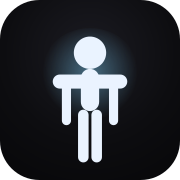
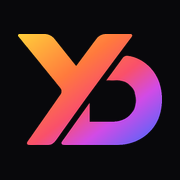
feat(brand): фирменный логотип YeahDays везде + чёткие иконки
- Компонент Logo (color/white, опциональное CSS-свечение) + LogoLoader
  (пульсирующий логотип вместо безликого спиннера).
- Онбординг-герой, экраны загрузки — цветной логотип; шапка главной и
  подпись профиля — белый знак.
- Иконки/favicon пересобраны из логотипа. Важно: светящийся исходник при
  уменьшении превращался в мутное пятно, поэтому иконки и логотип в UI
  строятся из ЧЁТКОЙ формы «YD» (силуэт из белого логотипа) + фирменный
  градиент — резко и цветно на любом размере, свечение добавляем в CSS.
- Манифест/метаданные переведены на PNG-иконки; удалён старый icon.svg
  и устаревший gen-icons.mjs; sw.js v3→v4 (прекэш логотипов).
- Исходники логотипов в assets/, генерация — scripts/process-logo.mjs
  (npm run process-logo).

diff --git a/src/app/page.tsx b/src/app/page.tsx
@@ -6,6 +6,7 @@ import { motion, AnimatePresence } from "framer-motion";
 import SwipeDeck from "@/components/SwipeDeck";
 import CheckIn from "@/components/CheckIn";
 import Onboarding from "@/components/Onboarding";
+import Logo, { LogoLoader } from "@/components/Logo";
 import {
   useUserStore,
   useHydrated,
@@ -97,11 +98,7 @@ export default function HomePage() {
   /* ── Состояния экрана ── */
 
   if (!hydrated) {
-    return (
-      <div className="flex flex-1 items-center justify-center">
-        <div className="h-8 w-8 animate-spin rounded-full border-2 border-[var(--color-border)] border-t-[var(--color-fg)]" />
-      </div>
-    );
+    return <LogoLoader />;
   }
 
   if (!onboarded) {
@@ -121,25 +118,25 @@ export default function HomePage() {
 
   return (
     <div className="flex flex-1 flex-col">
-      {/* Шапка: прогресс дня */}
-      <header className="mb-4 flex items-start justify-between">
-        <div>
-          <p className="text-[13px] font-medium text-[var(--color-muted)]">
-            Сегодня
-          </p>
-          <h1 className="mt-0.5 text-[26px] font-bold leading-tight tracking-tight">
-            {takenToday >= DAILY_GOAL
-              ? "План собран"
-              : "Что сделаешь сегодня?"}
-          </h1>
-        </div>
-
+      {/* Бренд-марка + стрик */}
+      <div className="mb-3 flex items-center justify-between">
+        <Logo variant="white" className="h-4 w-auto opacity-90" />
         {streak > 0 && (
           <div className="flex items-center gap-1.5 rounded-full bg-[var(--color-surface)] px-3 py-1.5">
             <span className="text-sm">🔥</span>
             <span className="text-sm font-bold tabular-nums">{streak}</span>
           </div>
         )}
+      </div>
+
+      {/* Шапка: прогресс дня */}
+      <header className="mb-4">
+        <p className="text-[13px] font-medium text-[var(--color-muted)]">
+          Сегодня
+        </p>
+        <h1 className="mt-0.5 text-[26px] font-bold leading-tight tracking-tight">
+          {takenToday >= DAILY_GOAL ? "План собран" : "Что сделаешь сегодня?"}
+        </h1>
       </header>
 
       {/* Индикатор набора плана */}
@@ -165,9 +162,7 @@ export default function HomePage() {
 
       {/* Колода */}
       {loading ? (
-        <div className="flex flex-1 items-center justify-center">
-          <div className="h-8 w-8 animate-spin rounded-full border-2 border-[var(--color-border)] border-t-[var(--color-fg)]" />
-        </div>
+        <LogoLoader />
       ) : (
         <SwipeDeck
           deck={deck}

diff --git a/src/components/Onboarding.tsx b/src/components/Onboarding.tsx
@@ -5,6 +5,7 @@ import { AnimatePresence, motion } from "framer-motion";
 import { STAT_LIST, type StatKey } from "@/lib/domain";
 import { useUserStore } from "@/store/useUserStore";
 import { cn } from "@/lib/cn";
+import Logo from "@/components/Logo";
 
 /**
  * Первый запуск. Задаёт тон продукта и собирает минимум, который реально
@@ -81,8 +82,14 @@ export default function Onboarding() {
           {step === 0 && (
             <Step key="welcome">
               <div className="flex flex-1 flex-col items-center justify-center text-center">
-                <Orb />
-                <h1 className="mt-8 text-[34px] font-black leading-none tracking-tight">
+                <motion.div
+                  initial={{ scale: 0.9, opacity: 0 }}
+                  animate={{ scale: 1, opacity: 1 }}
+                  transition={{ duration: 0.5, ease: [0.22, 1, 0.36, 1] }}
+                >
+                  <Logo glow className="h-28 w-auto" />
+                </motion.div>
+                <h1 className="mt-5 text-[34px] font-black leading-none tracking-tight">
                   YeahDays
                 </h1>
                 <p className="mt-3 max-w-[300px] text-[16px] leading-snug text-[var(--color-fg-dim)]">
@@ -215,33 +222,5 @@ function Step({ children }: { children: React.ReactNode }) {
     >
       {children}
     </motion.div>
-  );
-}
-
-/** Живой градиентный шар — знак бренда на приветственном экране. */
-function Orb() {
-  return (
-    <div className="relative h-28 w-28">
-      <motion.div
-        className="absolute inset-0 rounded-full"
-        style={{
-          background:
-            "conic-gradient(from 0deg, #f97362, #f0b23f, #3fbf9a, #8b7cf6, #f97362)",
-          filter: "blur(2px)",
-        }}
-        animate={{ rotate: 360 }}
-        transition={{ duration: 12, repeat: Infinity, ease: "linear" }}
-      />
-      <div className="absolute inset-[10px] rounded-full bg-[var(--color-bg)]" />
-      <motion.div
-        className="absolute inset-[26px] rounded-full"
-        style={{
-          background:
-            "radial-gradient(circle at 40% 35%, #fff, #8b7cf6 70%, transparent)",
-        }}
-        animate={{ scale: [1, 1.08, 1] }}
-        transition={{ duration: 3, repeat: Infinity, ease: "easeInOut" }}
-      />
-    </div>
   );
 }

diff --git a/src/components/Logo.tsx b/src/components/Logo.tsx
@@ -1,0 +1,44 @@
+"use client";
+
+import { motion } from "framer-motion";
+import { cn } from "@/lib/cn";
+
+interface LogoProps {
+  /** color — фирменный градиент; white — чистый белый знак */
+  variant?: "color" | "white";
+  /** мягкое неоновое свечение через CSS (для крупных мест) */
+  glow?: boolean;
+  className?: string;
+}
+
+const GLOW =
+  "[filter:drop-shadow(0_0_18px_rgba(160,120,255,0.45))_drop-shadow(0_0_34px_rgba(249,90,110,0.25))]";
+
+/** Логотип YeahDays. Чёткая «YD»; свечение — опциональный CSS-эффект. */
+export default function Logo({ variant = "color", glow, className }: LogoProps) {
+  return (
+    // eslint-disable-next-line @next/next/no-img-element
+    <img
+      src={variant === "white" ? "/logo-white.png" : "/logo.png"}
+      alt="YeahDays"
+      draggable={false}
+      className={cn("select-none object-contain", glow && GLOW, className)}
+    />
+  );
+}
+
+/** Экран загрузки с пульсирующим логотипом (вместо безликого спиннера). */
+export function LogoLoader() {
+  return (
+    <div className="flex flex-1 items-center justify-center">
+      <motion.img
+        src="/logo.png"
+        alt="YeahDays"
+        draggable={false}
+        className={cn("h-14 w-auto select-none object-contain", GLOW)}
+        animate={{ opacity: [0.6, 1, 0.6], scale: [0.96, 1, 0.96] }}
+        transition={{ duration: 1.5, repeat: Infinity, ease: "easeInOut" }}
+      />
+    </div>
+  );
+}

diff --git a/src/app/account/page.tsx b/src/app/account/page.tsx
@@ -3,6 +3,7 @@
 import { useMemo, useState } from "react";
 import { motion } from "framer-motion";
 import Avatar3D from "@/components/AvatarLazy";
+import Logo, { LogoLoader } from "@/components/Logo";
 import Modal from "@/components/ui/Modal";
 import Button from "@/components/ui/Button";
 import {
@@ -49,11 +50,7 @@ export default function AccountPage() {
   );
 
   if (!hydrated) {
-    return (
-      <div className="flex flex-1 items-center justify-center">
-        <div className="h-8 w-8 animate-spin rounded-full border-2 border-[var(--color-border)] border-t-[var(--color-fg)]" />
-      </div>
-    );
+    return <LogoLoader />;
   }
 
   return (
@@ -219,6 +216,14 @@ export default function AccountPage() {
         >
           Сбросить весь прогресс
         </Button>
+      </div>
+
+      {/* Бренд */}
+      <div className="mt-8 mb-1 flex flex-col items-center gap-1.5 opacity-55">
+        <Logo variant="white" className="h-4 w-auto" />
+        <p className="text-[11px] text-[var(--color-muted)]">
+          Одно действие в день
+        </p>
       </div>
 
       {/* Модалка имени */}

diff --git a/src/app/today/page.tsx b/src/app/today/page.tsx
@@ -7,6 +7,7 @@ import Avatar3D from "@/components/AvatarLazy";
 import PlanItem from "@/components/PlanItem";
 import LevelUpOverlay from "@/components/LevelUpOverlay";
 import DayCompleteOverlay from "@/components/DayCompleteOverlay";
+import { LogoLoader } from "@/components/Logo";
 import {
   useUserStore,
   useHydrated,
@@ -57,11 +58,7 @@ export default function TodayPage() {
   }
 
   if (!hydrated) {
-    return (
-      <div className="flex flex-1 items-center justify-center">
-        <div className="h-8 w-8 animate-spin rounded-full border-2 border-[var(--color-border)] border-t-[var(--color-fg)]" />
-      </div>
-    );
+    return <LogoLoader />;
   }
 
   return (

diff --git a/src/app/layout.tsx b/src/app/layout.tsx
@@ -25,7 +25,14 @@ export const metadata: Metadata = {
     statusBarStyle: "black-translucent",
     title: "YeahDays",
   },
-  icons: { icon: "/icon.svg", apple: "/apple-icon.png" },
+  icons: {
+    icon: [
+      { url: "/favicon.png", sizes: "64x64", type: "image/png" },
+      { url: "/icon-192.png", sizes: "192x192", type: "image/png" },
+      { url: "/icon-512.png", sizes: "512x512", type: "image/png" },
+    ],
+    apple: "/apple-icon.png",
+  },
 };
 
 export const viewport: Viewport = {

diff --git a/public/sw.js b/public/sw.js
@@ -1,5 +1,5 @@
 /* YeahDays service worker — офлайн-кэш + управляемое обновление */
-const CACHE = "yeahdays-v3";
+const CACHE = "yeahdays-v4";
 const PRECACHE = [
   "/",
   "/today",
@@ -7,7 +7,9 @@ const PRECACHE = [
   "/progress",
   "/account",
   "/manifest.webmanifest",
-  "/icon.svg",
+  "/favicon.png",
+  "/logo.png",
+  "/logo-white.png",
   "/models/rigged_man.glb",
 ];
 
